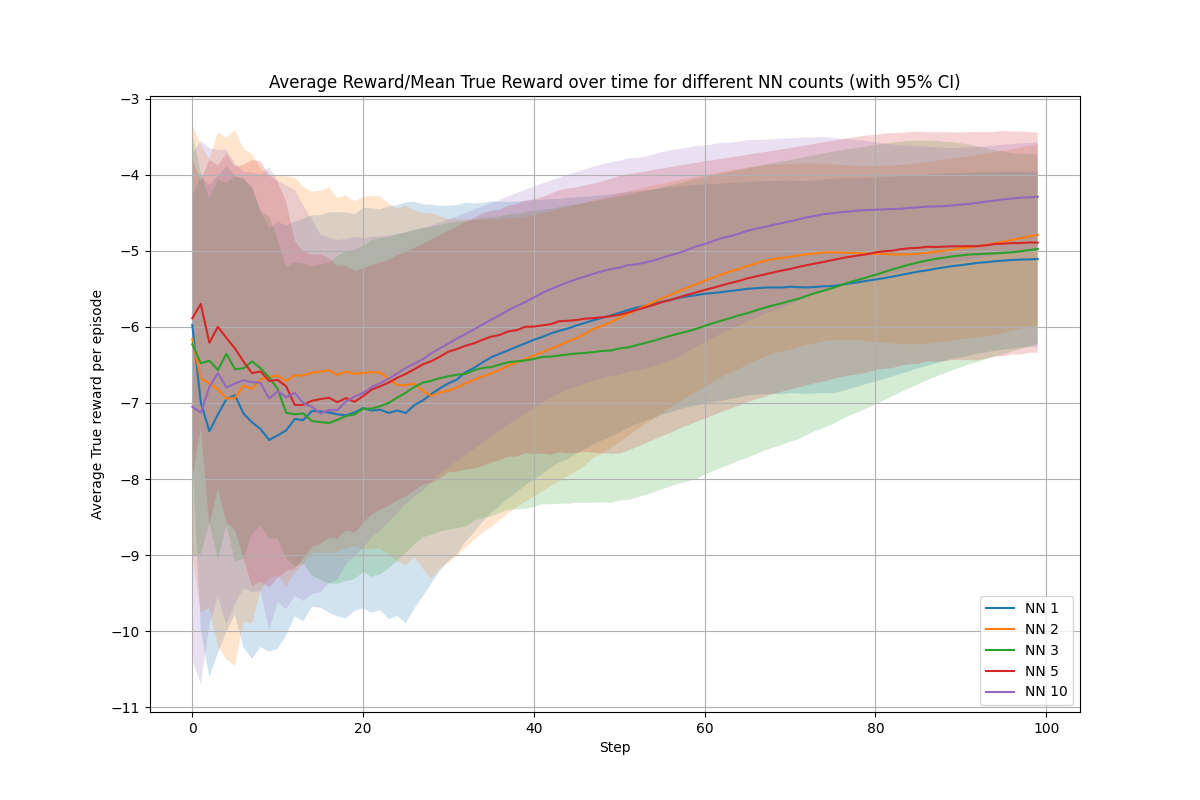
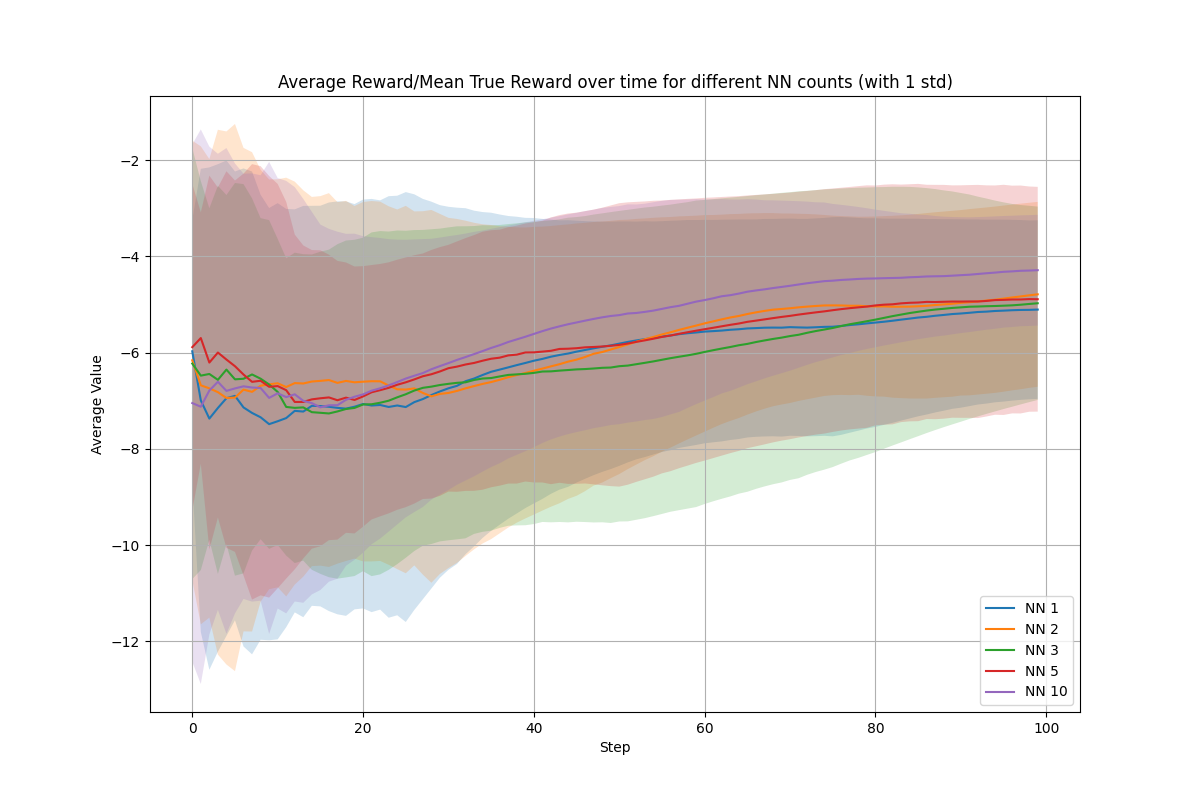
some more plotting code

diff --git a/delete.py b/delete.py
@@ -35,106 +35,111 @@
 
 
 
-import pandas as pd
-import matplotlib.pyplot as plt
-import numpy as np
-
-# Read the CSV file
-df = pd.read_csv('runs_memory_replay/true_rewards.csv')
-
-# Calculate the mean reward for each run
-mean_rewards = df.groupby(['num_of_NNs', 'run_id'])['true_reward'].mean().reset_index()
-
-# Calculate the average and standard deviation of mean rewards for each num_of_NNs
-avg_mean_rewards = mean_rewards.groupby('num_of_NNs')['true_reward'].agg(['mean', 'std']).reset_index()
-
-# Sort the results by num_of_NNs
-avg_mean_rewards = avg_mean_rewards.sort_values('num_of_NNs')
-
-# Create the plot
-plt.figure(figsize=(12, 7))
-plt.errorbar(avg_mean_rewards['num_of_NNs'], avg_mean_rewards['mean'], 
-             yerr=avg_mean_rewards['std'], fmt='o-', capsize=5, capthick=2, ecolor='red', markersize=8)
-
-plt.xlabel('Number of Neural Networks')
-plt.ylabel('Average Mean True Reward')
-plt.title('Average Mean True Reward vs Number of Neural Networks (with Confidence Intervals) - memory replay')
-plt.grid(True)
-
-# Add value labels on the points
-for x, y, std in zip(avg_mean_rewards['num_of_NNs'], avg_mean_rewards['mean'], avg_mean_rewards['std']):
-    plt.annotate(f'{y:.2f} ± {std:.2f}', (x, y), textcoords="offset points", xytext=(0,10), ha='center')
-
-# Show the plot
-plt.tight_layout()
-plt.show()
-plt.savefig('runs_memory_replay/avg_mean_true_reward_vs_num_of_NNs.png')
-
-
-
-
-
-# import tensorflow as tf
 # import pandas as pd
 # import matplotlib.pyplot as plt
-# from collections import defaultdict
-# import os
-# import re
+# import numpy as np
 
-# def extract_tensorboard_data(log_file, tag_name):
-#     data = defaultdict(list)
-    
-#     for event in tf.compat.v1.train.summary_iterator(log_file):
-#         for value in event.summary.value:
-#             if value.tag == tag_name:
-#                 data['step'].append(event.step)
-#                 data['value'].append(value.simple_value)
-    
-#     return pd.DataFrame(data)
+# # Read the CSV file
+# df = pd.read_csv('runs_memory_replay/true_rewards.csv')
 
-# def get_nn_number(folder_name):
-#     match = re.search(r'nn(\d+)', folder_name)
-#     return int(match.group(1)) if match else 0
+# # Calculate the mean reward for each run
+# mean_rewards = df.groupby(['num_of_NNs', 'run_id'])['true_reward'].mean().reset_index()
 
-# # Specify the path to your TensorBoard log file
-# main_folder = 'runs_memory_replay'
+# # Calculate the average and standard deviation of mean rewards for each num_of_NNs
+# avg_mean_rewards = mean_rewards.groupby('num_of_NNs')['true_reward'].agg(['mean', 'std']).reset_index()
 
-# # Specify the tag name of the parameter you want to extract
-# tag_name = 'Reward/Mean True Reward'
+# # Sort the results by num_of_NNs
+# avg_mean_rewards = avg_mean_rewards.sort_values('num_of_NNs')
 
+# # Create the plot
+# plt.figure(figsize=(12, 7))
+# plt.errorbar(avg_mean_rewards['num_of_NNs'], avg_mean_rewards['mean'], 
+#              yerr=avg_mean_rewards['std'], fmt='o-', capsize=5, capthick=2, ecolor='red', markersize=8)
 
-# all_data = []
-
-# # Iterate through all subdirectories
-# for subdir in os.listdir(main_folder):
-#     subdir_path = os.path.join(main_folder, subdir)
-#     if os.path.isdir(subdir_path):
-#         # Find the events file in the subdirectory
-#         for file in os.listdir(subdir_path):
-#             if file.startswith('events.out.tfevents'):
-#                 log_file = os.path.join(subdir_path, file)
-#                 df = extract_tensorboard_data(log_file, tag_name)
-#                 df['nn'] = get_nn_number(subdir)
-#                 all_data.append(df)
-
-# # Combine all dataframes
-# combined_df = pd.concat(all_data, ignore_index=True)
-
-# # Group by nn and step, then calculate the mean
-# averaged_df = combined_df.groupby(['nn', 'step'])['value'].mean().reset_index()
-
-# print(averaged_df)
-
-# # Plot the averages for each nn
-# plt.figure(figsize=(12, 8))
-# for nn in averaged_df['nn'].unique():
-#     nn_data = averaged_df[averaged_df['nn'] == nn]
-#     plt.plot(nn_data['step'], nn_data['value'], label=f'NN {nn}')
-
-# plt.xlabel('Step')
-# plt.ylabel('Average True Reward in the episode')
-# plt.title(f'Average {tag_name} over time for different NN counts')
-# plt.legend()
+# plt.xlabel('Number of Neural Networks')
+# plt.ylabel('Average Mean True Reward')
+# plt.title('Average Mean True Reward vs Number of Neural Networks (with Confidence Intervals) - memory replay')
 # plt.grid(True)
+
+# # Add value labels on the points
+# for x, y, std in zip(avg_mean_rewards['num_of_NNs'], avg_mean_rewards['mean'], avg_mean_rewards['std']):
+#     plt.annotate(f'{y:.2f} ± {std:.2f}', (x, y), textcoords="offset points", xytext=(0,10), ha='center')
+
+# # Show the plot
+# plt.tight_layout()
 # plt.show()
-# plt.savefig(f'runs_memory_replay/Average true reward over time for different NN counts')
+# plt.savefig('runs_memory_replay/avg_mean_true_reward_vs_num_of_NNs.png')
+
+
+
+
+import tensorflow as tf
+import pandas as pd
+import matplotlib.pyplot as plt
+from collections import defaultdict
+import os
+import re
+import numpy as np
+
+def extract_tensorboard_data(log_file, tag_name):
+    data = defaultdict(list)
+    
+    for event in tf.compat.v1.train.summary_iterator(log_file):
+        for value in event.summary.value:
+            if value.tag == tag_name:
+                data['step'].append(event.step)
+                data['value'].append(value.simple_value)
+    
+    return pd.DataFrame(data)
+
+def get_nn_number(folder_name):
+    match = re.search(r'nn(\d+)', folder_name)
+    return int(match.group(1)) if match else 0
+
+# Specify the path to your TensorBoard log file
+main_folder = 'runs_memory_replay'
+
+# Specify the tag name of the parameter you want to extract
+tag_name = 'Reward/Mean True Reward'
+
+all_data = []
+
+# Iterate through all subdirectories
+for subdir in os.listdir(main_folder):
+    subdir_path = os.path.join(main_folder, subdir)
+    if os.path.isdir(subdir_path):
+        # Find the events file in the subdirectory
+        for file in os.listdir(subdir_path):
+            if file.startswith('events.out.tfevents'):
+                log_file = os.path.join(subdir_path, file)
+                df = extract_tensorboard_data(log_file, tag_name)
+                df['nn'] = get_nn_number(subdir)
+                all_data.append(df)
+
+# Combine all dataframes
+combined_df = pd.concat(all_data, ignore_index=True)
+
+# Group by nn and step, then calculate the mean and standard deviation
+grouped = combined_df.groupby(['nn', 'step'])
+averaged_df = grouped['value'].agg(['mean', 'std']).reset_index()
+
+# Plot the averages with confidence intervals for each nn
+plt.figure(figsize=(12, 8))
+for nn in averaged_df['nn'].unique():
+    nn_data = averaged_df[averaged_df['nn'] == nn]
+    plt.plot(nn_data['step'], nn_data['mean'], label=f'NN {nn}')
+    
+    # Use one standard deviation as the confidence interval
+    ci = nn_data['std']
+    plt.fill_between(nn_data['step'], 
+                     nn_data['mean'] - ci, 
+                     nn_data['mean'] + ci, 
+                     alpha=0.2)
+
+plt.xlabel('Step')
+plt.ylabel('Average Value')
+plt.title(f'Average {tag_name} over time for different NN counts (with 1 std)')
+plt.legend()
+plt.grid(True)
+plt.show()
+plt.savefig('figs/Average true reward over time for different NN counts CI.png')
